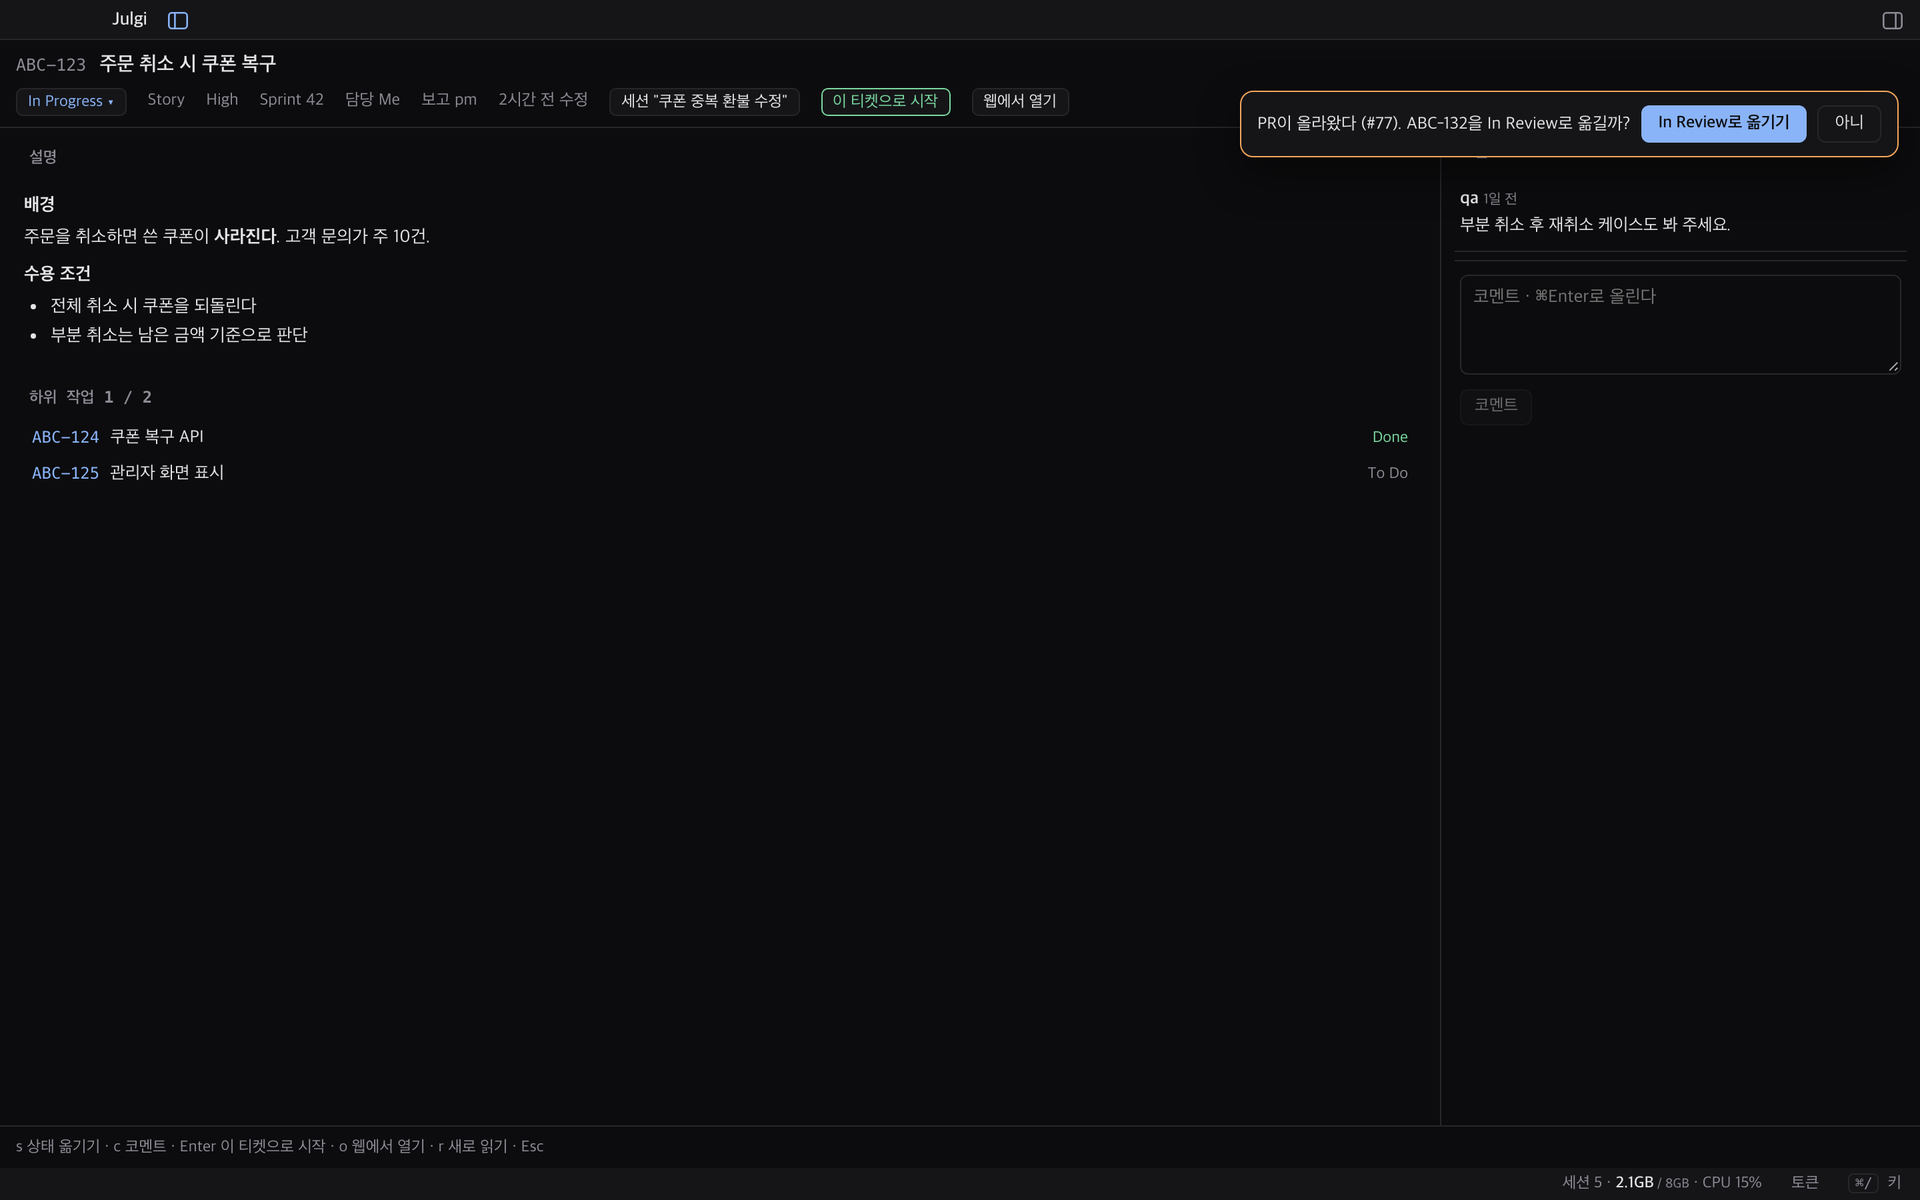
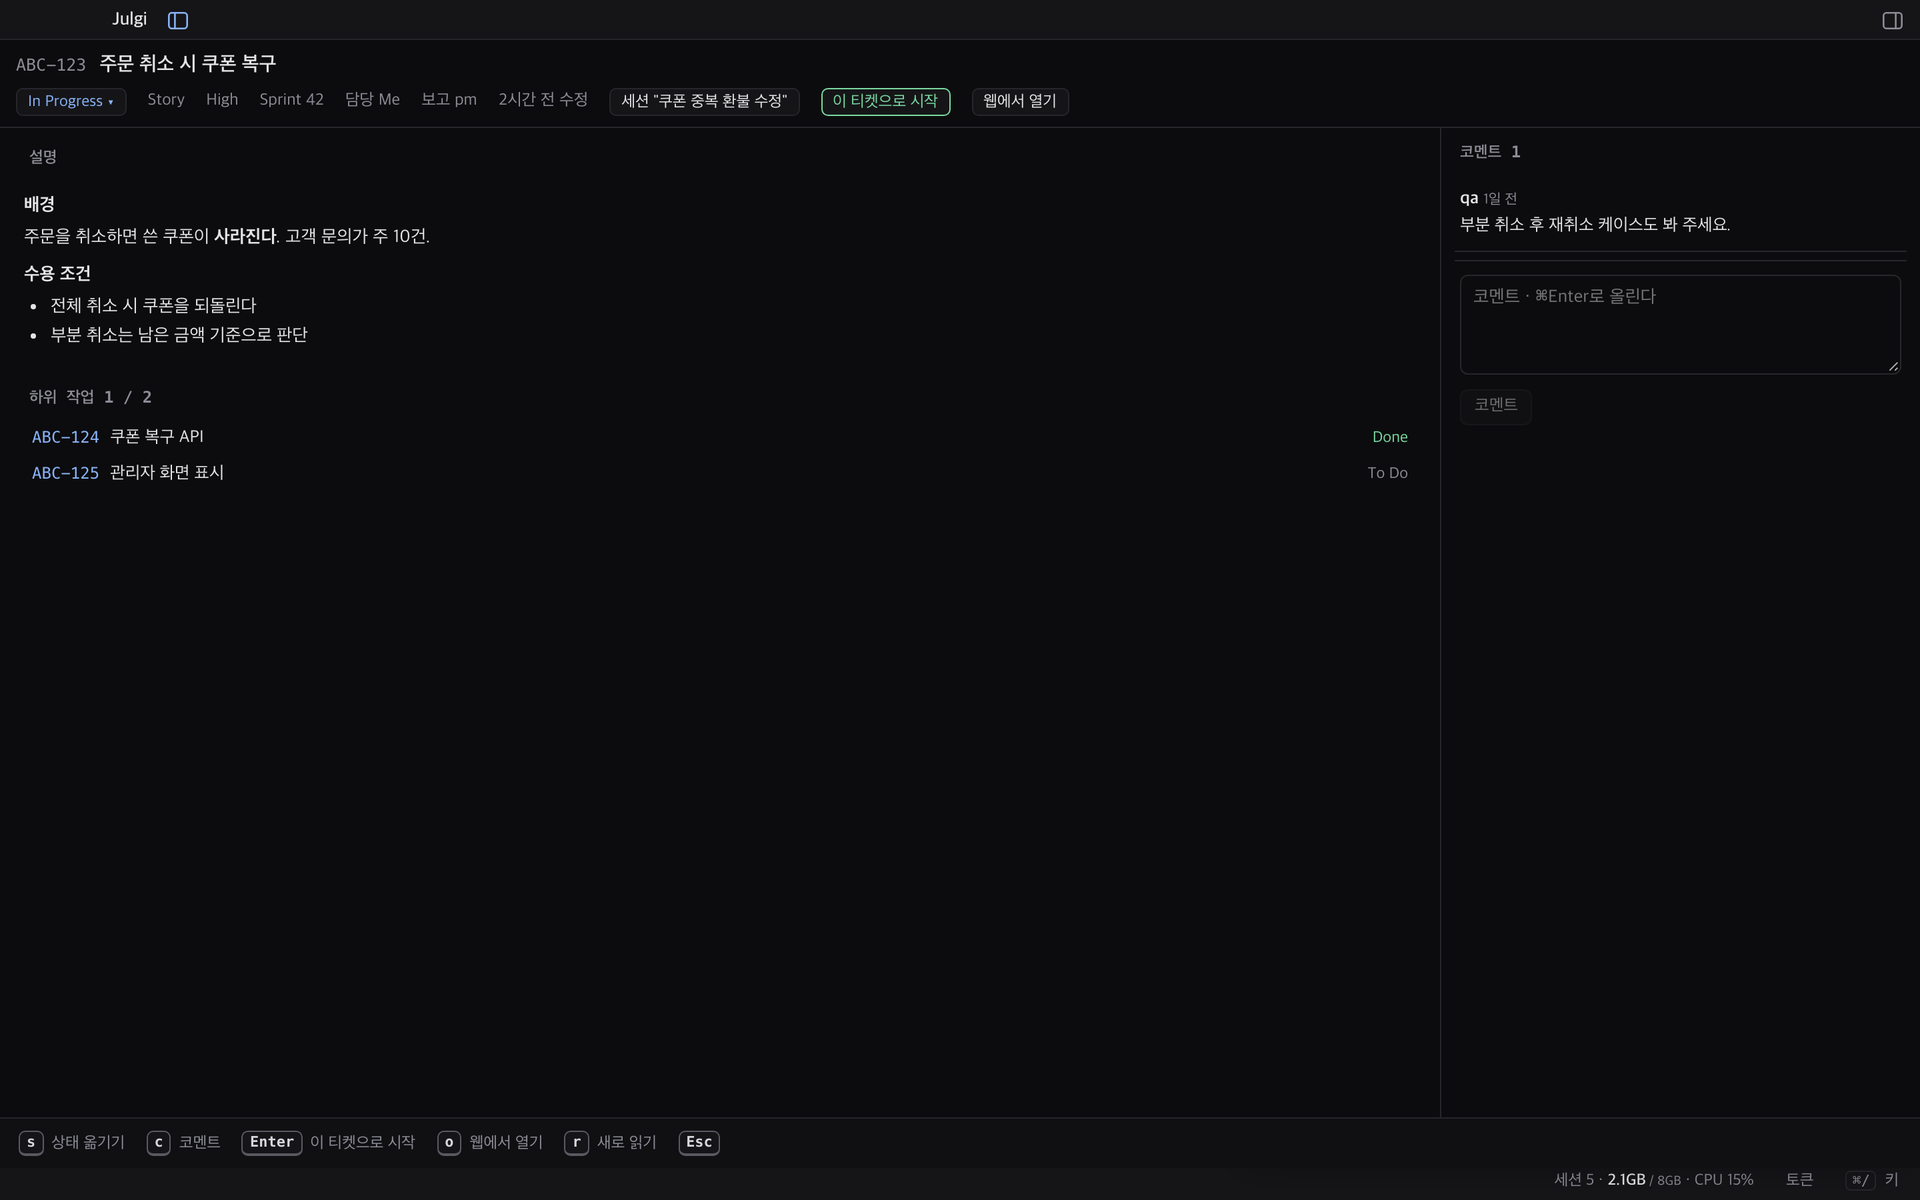
style: a visible redesign pass — calmer panels, roomier lists, key chips
- overlays blur and dim what is behind them, with a soft border and a
  larger radius instead of a bright accent outline
- key hints at the bottom of every overlay render as key chips with a
  label (new Hint component) instead of one long dotted sentence
- sidebar: larger titles, quieter meta lines, more space between rows
  and groups, a hover state
- pane header: taller, larger title, state shown as a tinted pill;
  shorter state labels so titles are not squeezed
- taller status bar, roomier rows in the queue, Work page and briefing,
  thin quiet scrollbars
- the ticket offer sits bottom right and stays under overlays

diff --git a/src/App.css b/src/App.css
@@ -1056,7 +1056,7 @@ body.dragging .pane-body { pointer-events: none; }
 .st-foot .primary, .offer .primary { background: var(--accent); border-color: var(--accent); color: var(--bg); font-weight: 600; }
 .st-foot button:disabled { opacity: 0.45; cursor: default; }
 /* 한 번 묻기 (화면 아래) */
-.offer { position: fixed; right: 16px; top: 68px; z-index: 40; display: flex; align-items: center; gap: 8px; max-width: min(620px, 90vw); padding: 10px 12px; font-size: 13px; background: var(--surface); border: 1px solid var(--wait); border-radius: 10px; box-shadow: 0 12px 32px rgba(0, 0, 0, 0.45); }
+.offer { position: fixed; right: 16px; bottom: 44px; z-index: 20; display: flex; align-items: center; gap: 8px; max-width: min(620px, 90vw); padding: 10px 12px; font-size: 13px; background: var(--surface); border: 1px solid var(--wait); border-radius: 10px; box-shadow: 0 12px 32px rgba(0, 0, 0, 0.45); }
 .offer span { flex: 1; }
 /* 설정의 Jira 연결 칸 */
 .set-jira { display: flex; flex-wrap: wrap; gap: 6px; align-items: center; justify-content: flex-end; max-width: 380px; }
@@ -1112,3 +1112,68 @@ body.dragging .pane-body { pointer-events: none; }
 .set-card .set-row.stack > :last-child { display: flex; flex-wrap: wrap; gap: 8px; justify-content: flex-start; }
 .set-body { height: min(720px, 82vh); }
 .settings { width: min(1000px, 94vw); }
+
+/* ───────── 다듬기: 조용한 틀, 넓은 여백, 또렷한 위계 ─────────
+   앞에서 쌓인 규칙 위에 덮는다. 목표는 셋이다: (1) 창의 테두리와 그림자를 가라앉혀 내용이 먼저 보이게,
+   (2) 목록 줄에 숨 쉴 자리를 주고 제목과 곁글의 크기 차이를 벌려 한눈에 읽히게, (3) 키 안내를 글줄이 아니라 단추로 */
+
+/* 뒤 배경은 흐리게 가려 창에 눈이 가게 한다 */
+.pal-back { background: rgb(0 0 0 / 0.42); -webkit-backdrop-filter: blur(6px) saturate(0.9); backdrop-filter: blur(6px) saturate(0.9); }
+.pal, .qu, .mo, .us, .help { border: 1px solid color-mix(in srgb, var(--line) 55%, var(--muted) 45%); border-radius: 14px; box-shadow: 0 30px 80px rgb(0 0 0 / 0.55), 0 2px 8px rgb(0 0 0 / 0.3); }
+.pal.settings { border-radius: 14px; }
+
+/* 키 안내: 키는 단추, 설명은 글 */
+.pal-foot.hint { display: flex; flex-wrap: wrap; align-items: center; gap: 5px 16px; padding: 9px 14px; font-size: 12px; line-height: 1.5; color: var(--muted); background: color-mix(in srgb, var(--bg) 55%, var(--surface)); }
+.hint-item { display: inline-flex; align-items: center; white-space: nowrap; }
+.hint kbd { font: 600 11px/16px ui-monospace, "SF Mono", Menlo, monospace; min-width: 0; padding: 0 5px; margin-right: 6px; text-align: center; color: color-mix(in srgb, var(--ink) 85%, var(--muted)); background: var(--surface); border: 1px solid color-mix(in srgb, var(--line) 50%, var(--muted) 50%); border-bottom-width: 2px; border-radius: 5px; }
+.hint kbd + kbd { margin-left: -2px; }
+.wk-foot.hint { border-top: 1px solid var(--line); }
+
+/* 왼쪽 목록: 제목을 키우고 곁글을 가라앉힌다. 줄 사이를 넓힌다 */
+.side-list { padding: 4px 8px 16px; }
+.grp { padding: 20px 10px 6px 12px; font-size: 11.5px; letter-spacing: 0.05em; }
+.grp:first-child { padding-top: 10px; }
+.row { padding: 9px 10px; gap: 8px; margin: 2px 0; border-radius: 9px; transition: background 0.12s; }
+.row:hover { background: color-mix(in srgb, var(--vis) 60%, transparent); }
+.row-title { font-size: 14px; font-weight: 500; line-height: 1.35; letter-spacing: -0.005em; }
+.row.on .row-title, .row.sleep.on .row-title { font-weight: 650; }
+.row-meta { font-size: 12px; line-height: 1.45; margin-top: 3px; }
+.row .dot { margin-top: 6px; }
+.row .n { margin-top: 2px; font-size: 11.5px; }
+.row.vis { background: color-mix(in srgb, var(--vis) 75%, transparent); }
+.row.on { background: var(--accent-soft); box-shadow: inset 2.5px 0 0 var(--accent); }
+.row.sleep { padding: 7px 10px 7px 16px; }
+.row.sleep .row-title { font-size: 13.5px; font-weight: 450; }
+.side-search { height: 34px; border-radius: 9px; }
+.side-work { padding: 8px 10px; border-radius: 9px; font-size: 13.5px; }
+
+/* 칸 머리: 한 줄을 키우고, 상태는 알약 모양으로 */
+.pane-head { height: 34px; padding: 0 12px; gap: 9px; font-size: 12px; }
+.pane-head b { font-size: 13.5px; letter-spacing: -0.005em; }
+.pane-right { gap: 7px; align-items: center; }
+.pane-right > span { padding: 1.5px 8px; border-radius: 999px; font-size: 11.5px; font-weight: 600; line-height: 16px; background: color-mix(in srgb, var(--line) 70%, transparent); color: var(--muted); }
+.pane-right > span.wait, .pane-right > span.ask, .pane-right > span.stuck { background: var(--wait-soft); color: var(--wait); }
+.pane-right > span.run, .pane-right > span.hold { background: var(--accent-soft); color: var(--accent); }
+.pane-right > span.tok { background: none; padding: 0; font-weight: 500; font-variant-numeric: tabular-nums; }
+.pane-right > span.tok.hot { color: var(--wait); font-weight: 600; }
+.pane-right .pin { font-size: 11.5px; }
+
+/* 아래 상태 줄 */
+.app { grid-template-rows: 30px minmax(0, 1fr) 30px; }
+.status { font-size: 12px; gap: 16px; padding: 0 12px; }
+
+/* 창 안의 목록 줄: 내 차례, 작업, 브리핑, 기록 */
+.qu-row, .wk-row, .mo-row { padding: 9px 11px; border-radius: 9px; transition: background 0.12s; }
+.qu-row b, .wk-row-title, .mo-name { font-size: 13.5px; line-height: 1.4; }
+.qu-row small, .wk-row-meta, .mo-meta { font-size: 12px; line-height: 1.45; }
+.qu-head, .mo h3, .wk-sec { letter-spacing: 0.05em; }
+.qu-list { padding: 10px; gap: 3px; }
+.wk-grp { padding: 7px 9px; border-radius: 8px; font-size: 13.5px; }
+.wk-title, .set-title { font-size: 16.5px; letter-spacing: -0.01em; }
+.mo-head b { font-size: 17px; }
+
+/* 스크롤 막대는 가늘고 조용하게 */
+::-webkit-scrollbar { width: 10px; height: 10px; }
+::-webkit-scrollbar-track { background: transparent; }
+::-webkit-scrollbar-thumb { background: color-mix(in srgb, var(--muted) 35%, transparent); border: 3px solid transparent; background-clip: padding-box; border-radius: 999px; }
+::-webkit-scrollbar-thumb:hover { background: color-mix(in srgb, var(--muted) 60%, transparent); background-clip: padding-box; border: 3px solid transparent; }

diff --git a/src/Threads.tsx b/src/Threads.tsx
@@ -1,3 +1,4 @@
+import Hint from "./Hint";
 import { useEffect, useMemo, useRef, useState } from "react";
 import Numbers from "./Numbers";
 import { Act } from "./History";
@@ -446,7 +447,7 @@ export default function Threads({ repos, nameOf, onShow, map, drawing, onRedraw,
             </div>
           ))}
         </div>
-        <div className="pal-foot">{tab === "stems" ? tr("↑↓ 줄기 고르기 · ←→ 줄기 안의 세션 고르기 · Enter 그 세션으로 · ⌘1–⌘4 또는 Tab으로 탭 바꾸기 · Esc") : tab === "brain" ? tr("↑↓ 노트 고르기 · ⌫ 지우기 · Tab 스킬 · Esc") : tab === "git" ? tr("보기만 한다. 브랜치를 바꾸거나 올리는 것은 세션에게 시킨다 · ⌘1–⌘6 · Esc") : tab === "map" ? tr("레포를 넣고 빼는 것은 ⌘, 설정의 \"레포가 모여 있는 폴더\" · ⌘1–⌘5 · Esc") : tab === "nums" ? tr("⌘1–⌘5 또는 Tab으로 탭 바꾸기 · Esc") : tr("상태는 숫자로 정한다: 30일 안에 쓰였으면 쓰는 중, 안 쓰였으면 안 쓰임, 안 쓰이고 석 달 넘게 안 고쳤으면 낡음 · Tab 통계 · Esc")}</div>
+        <Hint text={tab === "stems" ? tr("↑↓ 줄기 고르기 · ←→ 줄기 안의 세션 고르기 · Enter 그 세션으로 · ⌘1–⌘4 또는 Tab으로 탭 바꾸기 · Esc") : tab === "brain" ? tr("↑↓ 노트 고르기 · ⌫ 지우기 · Tab 스킬 · Esc") : tab === "git" ? tr("보기만 한다. 브랜치를 바꾸거나 올리는 것은 세션에게 시킨다 · ⌘1–⌘6 · Esc") : tab === "map" ? tr("레포를 넣고 빼는 것은 ⌘, 설정의 \"레포가 모여 있는 폴더\" · ⌘1–⌘5 · Esc") : tab === "nums" ? tr("⌘1–⌘5 또는 Tab으로 탭 바꾸기 · Esc") : tr("상태는 숫자로 정한다: 30일 안에 쓰였으면 쓰는 중, 안 쓰였으면 안 쓰임, 안 쓰이고 석 달 넘게 안 고쳤으면 낡음 · Tab 통계 · Esc")} />
       </div>
     </div>
   );

diff --git a/src/Work.tsx b/src/Work.tsx
@@ -1,3 +1,4 @@
+import Hint from "./Hint";
 import { tr } from "./i18n";
 import { ReactNode, useEffect, useMemo, useRef, useState } from "react";
 import { CATEGORY, Ticket, TicketWork } from "./jira";
@@ -237,15 +238,19 @@ export default function Work({ groups, ticketGroups = [], loadTickets, ticketPan
           <div className="wk-empty">{tgroup ? tr`왼쪽에서 티켓을 고른다` : tr`왼쪽에서 PR을 고른다`}</div>
         )}
       </div>
-      <div className="wk-foot">
-        {tgroup ? tr`1–9·Tab 묶음 · ↑↓ 고르기 · Enter·→ 티켓 화면으로 (Esc로 목록에 돌아옴)` : tr`1–9·Tab 묶음 · ↑↓ 고르기 · Enter·→ PR 화면으로 (Esc로 목록에 돌아옴)`}
-        {" · "}
-        {row?.sessionId ? tr`s 세션 열기` + " · " : ""}
-        {row?.ask ? tr`⌘Enter 세션에 리뷰 맡기기` + " · " : ""}
-        {ticket && works.get(ticket.key)?.session ? tr`s 이어진 세션으로` + " · " : ""}
-        {ticket ? tr`⌘Enter 이 티켓으로 시작` + " · " : ""}
-        {tr`o 브라우저에서 열기 · r 새로 읽기 · Esc 닫기`}
-      </div>
+      <Hint
+        className="wk-foot"
+        text={[
+          tgroup ? tr`1–9·Tab 묶음 · ↑↓ 고르기 · Enter·→ 티켓 화면으로 (Esc로 목록에 돌아옴)` : tr`1–9·Tab 묶음 · ↑↓ 고르기 · Enter·→ PR 화면으로 (Esc로 목록에 돌아옴)`,
+          row?.sessionId ? tr`s 세션 열기` : "",
+          row?.ask ? tr`⌘Enter 세션에 리뷰 맡기기` : "",
+          ticket && works.get(ticket.key)?.session ? tr`s 이어진 세션으로` : "",
+          ticket ? tr`⌘Enter 이 티켓으로 시작` : "",
+          tr`o 브라우저에서 열기 · r 새로 읽기 · Esc 닫기`,
+        ]
+          .filter(Boolean)
+          .join(" · ")}
+      />
     </div>
   );
 }

diff --git a/src/model.ts b/src/model.ts
@@ -207,7 +207,7 @@ export const setAlive = (ids: string[]) => void (alive = new Set(ids));
 export const elsewhere = (s: Session) => alive.has(s.id) || (Date.now() / 1000 - s.mtime < ELSEWHERE_S && s.mtime > (sleptAt.get(s.id) ?? 0) + 5);
 /** 프로세스가 떠 있는 것을 직접 본 것인가 */
 export const aliveElsewhere = (s: Session) => alive.has(s.id);
-export const STATE_LABEL: Record<string, string> = { run: tr("일하는 중"), wait: tr("답함 · 내 차례"), hold: tr("일감 기다리는 중"), idle: tr("일감 끝냄"), ask: tr("확인이 필요함"), dead: tr("끝남"), stuck: tr("멈춰 있음 · 확인 필요"), told: tr("보고함 · 할 일 없음") };
+export const STATE_LABEL: Record<string, string> = { run: tr("일하는 중"), wait: tr("답함 · 내 차례"), hold: tr("일감 기다리는 중"), idle: tr("일감 끝냄"), ask: tr("확인이 필요함"), dead: tr("끝남"), stuck: tr("멈춰 있음"), told: tr("보고함") };
 
 // Julgi가 띄운 Claude 세션만 상태를 적게 한다. 전역 설정은 건드리지 않고 실행할 때만 훅을 얹는다.
 // 서브에이전트의 도구 호출도 부모 세션의 훅으로 온다(입력에 agent_id가 붙는다). 메인 답이 끝난 뒤 백그라운드 서브에이전트가

diff --git a/src/Hint.tsx b/src/Hint.tsx
@@ -1,0 +1,28 @@
+// 창 아래의 키 안내. "↑↓ 고르기 · Enter 그 세션으로 · Esc" 같은 한 줄을 받아, 키는 단추 모양으로, 설명은 글로 나눠 그린다.
+// 안내 글은 번역된 한 문장이라 여기서 모양만 가른다: " · "로 나눈 조각의 맨 앞이 키처럼 생겼으면 키로 본다.
+const TOKEN = String.raw`(?:[⌘⌥⇧^]+)?(?:Enter|Esc|Tab|Space|↑↓|←→|[↑↓←→⏎↳]|\d[–-][⌘]?\d|[A-Za-z0-9]|[\[\]/,])`;
+const KEYS = new RegExp(String.raw`^(${TOKEN}(?:[·/ ]${TOKEN})*)(?=\s|$)`);
+
+export default function Hint({ text, className = "" }: { text: string; className?: string }) {
+  return (
+    <div className={"pal-foot hint " + className}>
+      {text.split(" · ").map((part, i) => {
+        const hit = part.match(KEYS);
+        return (
+          <span key={i} className="hint-item">
+            {hit ? (
+              <>
+                {hit[1].split(/(?<=[^ ]) (?=[^ ])/).map((k, n) => (
+                  <kbd key={n}>{k}</kbd>
+                ))}
+                {part.slice(hit[1].length)}
+              </>
+            ) : (
+              part
+            )}
+          </span>
+        );
+      })}
+    </div>
+  );
+}

diff --git a/src/Queue.tsx b/src/Queue.tsx
@@ -1,3 +1,4 @@
+import Hint from "./Hint";
 import { useEffect, useMemo, useRef, useState } from "react";
 import { invoke } from "@tauri-apps/api/core";
 import { ago } from "./model";
@@ -195,7 +196,7 @@ export default function Queue({ rows, asks, mine, tickets, onTicket, onStartTick
               />
             </>
           )}
-          <div className="pal-foot">{ask ? tr`↑↓ 고르기 · Enter PR 화면 (글이 있으면 세션에 맡기기) · ⌘Enter 세션에 맡기기 · Esc` : tr`↑↓ 고르기 · Enter 답 보내기 (빈 채면 세션 열기) · ⌘Enter 세션 열기 · ⇧Enter 줄바꿈 · Esc`}</div>
+          <Hint text={ask ? tr`↑↓ 고르기 · Enter PR 화면 (글이 있으면 세션에 맡기기) · ⌘Enter 세션에 맡기기 · Esc` : tr`↑↓ 고르기 · Enter 답 보내기 (빈 채면 세션 열기) · ⌘Enter 세션 열기 · ⇧Enter 줄바꿈 · Esc`} />
         </div>
       </div>
     </div>

diff --git a/src/Morning.tsx b/src/Morning.tsx
@@ -1,5 +1,6 @@
 // 브리핑: 한동안 자리를 비웠다 돌아왔을 때 한 화면으로 보는 것.
 // 지금 나를 기다리는 것, 그동안 PR과 티켓에 생긴 일, 하던 일들이 어디까지 왔는지, 그동안 Julgi가 알아서 한 일.
+import Hint from "./Hint";
 import { useEffect, useRef, useState } from "react";
 import { tr } from "./i18n";
 import { Progress, ago as agoSec } from "./model";
@@ -147,7 +148,7 @@ export default function Morning({ since, waits, news, told, stems, acts, onShow,
             </section>
           )}
         </div>
-        <div className="pal-foot">{tr`↑↓ 고르기 · Enter 그 세션으로 · j 내 차례(⌘J)에서 한꺼번에 답하기 · y 한 일 전부 · Esc 닫기`}</div>
+        <Hint text={tr`↑↓ 고르기 · Enter 그 세션으로 · j 내 차례(⌘J)에서 한꺼번에 답하기 · y 한 일 전부 · Esc 닫기`} />
       </div>
     </div>
   );

diff --git a/src/Send.tsx b/src/Send.tsx
@@ -1,3 +1,4 @@
+import Hint from "./Hint";
 import { useEffect, useMemo, useRef, useState } from "react";
 import { invoke } from "@tauri-apps/api/core";
 import { aboutOf, ago, Folder, hot, Item, kilo, modelFor, repoOf } from "./model";
@@ -270,7 +271,7 @@ export default function Send({ items, openIds, cwd, folders, base, notes, misses
             {hot(picked.item.session.tokens) && <span> · {tr`세션이 크다. ⌘Enter로 갈아탄 뒤 보낼 수 있다`}</span>}
           </div>
         )}
-        <div className="pal-foot">{tr`Enter 알아서 보내기 · ↑↓로 고르면 고른 곳으로 · Tab 모델에게 미리 묻기 · ⌘Enter 갈아탄 뒤 보내기 · ⇧Enter 줄바꿈 · Esc`}</div>
+        <Hint text={tr`Enter 알아서 보내기 · ↑↓로 고르면 고른 곳으로 · Tab 모델에게 미리 묻기 · ⌘Enter 갈아탄 뒤 보내기 · ⇧Enter 줄바꿈 · Esc`} />
       </div>
     </div>
   );

diff --git a/src/Palette.tsx b/src/Palette.tsx
@@ -1,3 +1,4 @@
+import Hint from "./Hint";
 import { useEffect, useMemo, useRef, useState } from "react";
 import { ago, linkLabel, Open, repoOf, Session } from "./model";
 import { invoke } from "@tauri-apps/api/core";
@@ -251,7 +252,7 @@ export default function Palette({ open, sessions, byId, cwd, onPick, onAttach, o
             {rows[at].session!.links.length > 0 && <span> · {tr`링크 ${rows[at].session!.links.length}개`}</span>}
           </div>
         )}
-        <div className="pal-foot">{tr`Enter 열기 (↳ 산출물은 브라우저로) · Tab 요약만 붙이기 · ⌥Enter 지금 세션과 한 줄기로 · ↑ 새 세션 · Esc`}</div>
+        <Hint text={tr`Enter 열기 (↳ 산출물은 브라우저로) · Tab 요약만 붙이기 · ⌥Enter 지금 세션과 한 줄기로 · ↑ 새 세션 · Esc`} />
       </div>
     </div>
   );

diff --git a/src/Settings.tsx b/src/Settings.tsx
@@ -1,3 +1,4 @@
+import Hint from "./Hint";
 import qrcode from "qrcode-generator";
 import { useEffect, useRef, useState } from "react";
 import { invoke } from "@tauri-apps/api/core";
@@ -434,7 +435,7 @@ export default function Settings({ onChange, onClose, remoteUrl, onConnect, onCo
             <option key={name} value={name} />
           ))}
         </datalist>
-        <div className="pal-foot">{tr("Tab 묶음 넘기기 · ↑↓ 고르기 · ←→ 바꾸기 · Enter 켜고 끄기, 글 고치기 · 바로 적용된다 · Esc · 나머지 값은 ~/.julgi/config.json")}</div>
+        <Hint text={tr("Tab 묶음 넘기기 · ↑↓ 고르기 · ←→ 바꾸기 · Enter 켜고 끄기, 글 고치기 · 바로 적용된다 · Esc · 나머지 값은 ~/.julgi/config.json")} />
       </div>
     </div>
   );

diff --git a/src/CodeReview.tsx b/src/CodeReview.tsx
@@ -1,3 +1,4 @@
+import Hint from "./Hint";
 import { useEffect, useMemo, useRef, useState } from "react";
 import { invoke } from "@tauri-apps/api/core";
 import { openUrl } from "@tauri-apps/plugin-opener";
@@ -547,7 +548,7 @@ export default function Review({ places, known, sessions, onSay, onClose }: Prop
         </div>
         )}
       </div>
-      <div className="pal-foot">{tr`↑↓ 파일 · ←→ 이력에서 위아래로 · f 파일 전체 · h 이력 · n p 다음/이전 바뀐 곳 · 줄을 누르면 세션에게 말한다 · Esc`}</div>
+      <Hint text={tr`↑↓ 파일 · ←→ 이력에서 위아래로 · f 파일 전체 · h 이력 · n p 다음/이전 바뀐 곳 · 줄을 누르면 세션에게 말한다 · Esc`} />
     </div>
   );
 }

diff --git a/src/App.tsx b/src/App.tsx
@@ -1,3 +1,4 @@
+import Hint from "./Hint";
 import { useEffect, useMemo, useRef, useState } from "react";
 import { invoke } from "@tauri-apps/api/core";
 import { getCurrentWebview } from "@tauri-apps/api/webview";
@@ -2994,7 +2995,7 @@ export default function App() {
           <div className="confirm" onMouseDown={(e) => e.stopPropagation()}>
             <b>{tr`일하는 세션이 ${open.filter((o) => states[o.key]?.state === "run").length}개 있다`}</b>
             <p>{tr`지금 끄면 하던 일이 멈춘다. 대화는 남아서 다시 켜면 이어 열 수 있다.`}</p>
-            <div className="pal-foot">{tr`Enter 끄기 · Esc 취소`}</div>
+            <Hint text={tr`Enter 끄기 · Esc 취소`} />
           </div>
         </div>
       )}
